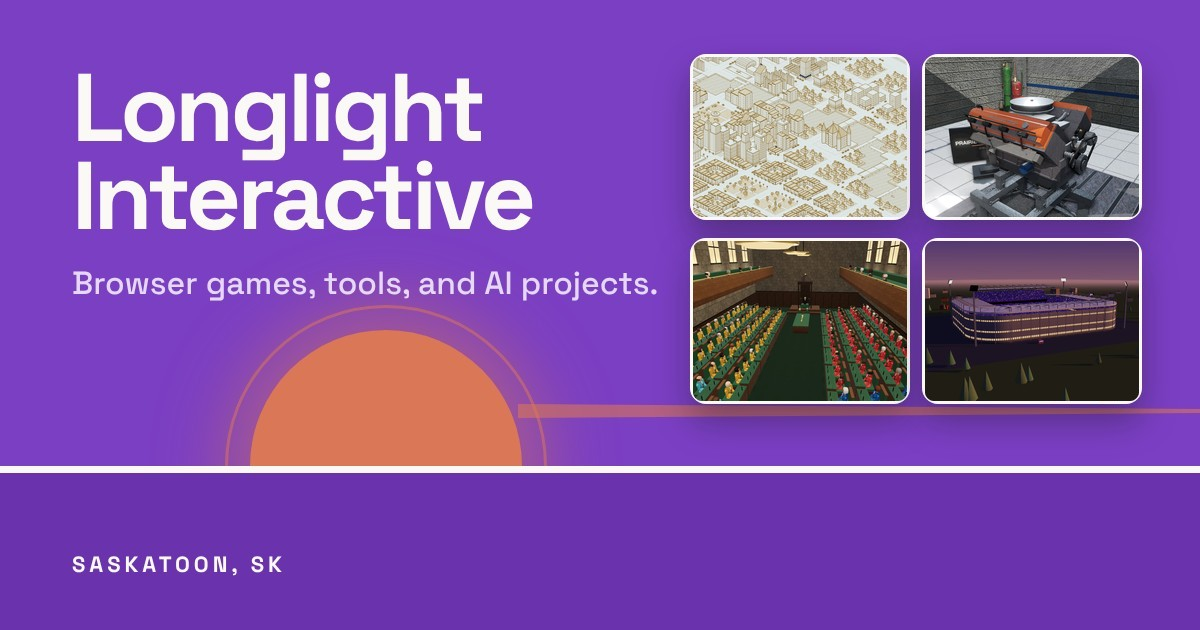
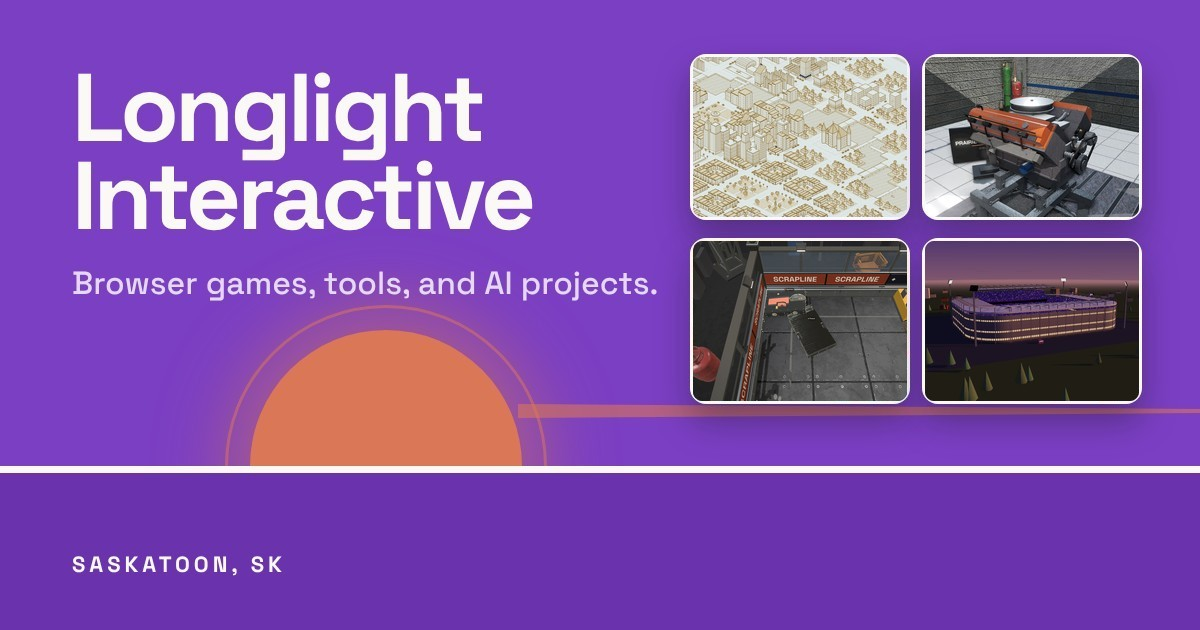
Link preview: Scrapline replaces The Whip in the cover grid (#282)
* Projects: hide The Whip from the site for now

Adds a "hidden": true switch to projects.json. A hidden project drops off
every card list, the All page and its game page, and the Devlog Writer and
Release Writer skip it, but its entry stays so it can come back by deleting
one line. The Whip is hidden while Kelbo puts more time into it; its repo
and live game stay up and public.

Claude-Session: https://claude.ai/code/session_01Hoqj1k4LigxdU4XFew1ULv

* Projects: hide Escapement from the site for now too

Same switch as The Whip: off every list and with no game page, but the
repo and the live game stay up for anyone with the link.

Claude-Session: https://claude.ai/code/session_01Hoqj1k4LigxdU4XFew1ULv

* Contact: in-house form through a Cloudflare Worker

The home page contact form now posts to our own contact-form Worker at
contact.longlight.games, which emails Kelbo with Cloudflare Email Routing.
Web3Forms (and its access key) are gone. His address lives only in the
Worker's settings in Cloudflare, never in the site or repo. The Worker
takes posts only from longlight.games, drops honeypot bots and caps field
lengths. Reference code in .github/worker/contact-form.js; docs updated.

Claude-Session: https://claude.ai/code/session_01Hoqj1k4LigxdU4XFew1ULv

* Pull sky: sky above the page when you pull down, and refresh in the app

Pulling the page down past the top used to show a blank gap with a purple
smudge. Now the sky carries on above the header: stars at night, soft
[…]

Changed region(s): [[0.555, 0.3619, 0.7708, 0.6635]]

diff --git a/press.html b/press.html
@@ -14,7 +14,7 @@
   <meta property="og:title" content="Press kit · Longlight Interactive">
   <meta property="og:description" content="Logos, game covers, screenshots and the facts about Longlight Interactive and its browser games, ready for articles, videos and streams.">
   <meta property="og:url" content="https://longlight.games/press.html">
-  <meta property="og:image" content="https://longlight.games/assets/social-preview.jpg?v=19">
+  <meta property="og:image" content="https://longlight.games/assets/social-preview.jpg?v=20">
   <meta property="og:image:width" content="1200">
   <meta property="og:image:height" content="630">
   <meta property="og:image:alt" content="The Longlight Interactive sun over a purple horizon, beside screenshots of four of its games.">

diff --git a/briefs.html b/briefs.html
@@ -14,7 +14,7 @@
   <meta property="og:title" content="Pre-market brief · Longlight Interactive">
   <meta property="og:description" content="My pre-market brief: MU and the AI hardware names, written from the morning's news before the US open. Estimates, not advice.">
   <meta property="og:url" content="https://longlight.games/briefs.html">
-  <meta property="og:image" content="https://longlight.games/assets/social-preview.jpg?v=19">
+  <meta property="og:image" content="https://longlight.games/assets/social-preview.jpg?v=20">
   <meta property="og:image:width" content="1200">
   <meta property="og:image:height" content="630">
   <meta property="og:image:alt" content="The Longlight Interactive sun over a purple horizon, beside screenshots of four of its games.">

diff --git a/agent-fleet.html b/agent-fleet.html
@@ -14,7 +14,7 @@
   <meta property="og:title" content="Agent Fleet · Longlight Interactive">
   <meta property="og:description" content="A growing set of small, single-purpose bots I can run from my phone, like news digests, trackers, and weekly scans.">
   <meta property="og:url" content="https://longlight.games/agent-fleet.html">
-  <meta property="og:image" content="https://longlight.games/assets/social-preview.jpg?v=19">
+  <meta property="og:image" content="https://longlight.games/assets/social-preview.jpg?v=20">
   <meta property="og:image:width" content="1200">
   <meta property="og:image:height" content="630">
   <meta property="og:image:alt" content="The Longlight Interactive sun over a purple horizon, beside screenshots of four of its games.">

diff --git a/journal.html b/journal.html
@@ -14,7 +14,7 @@
   <meta property="og:title" content="AI Trading Journal · Longlight Interactive">
   <meta property="og:description" content="Kelbo's trading journal: his market views, his trades, and his running record, with notes from an AI coach.">
   <meta property="og:url" content="https://longlight.games/journal.html">
-  <meta property="og:image" content="https://longlight.games/assets/social-preview.jpg?v=19">
+  <meta property="og:image" content="https://longlight.games/assets/social-preview.jpg?v=20">
   <meta property="og:image:width" content="1200">
   <meta property="og:image:height" content="630">
   <meta property="og:image:alt" content="The Longlight Interactive sun over a purple horizon, beside screenshots of four of its games.">

diff --git a/game.html b/game.html
@@ -14,7 +14,7 @@
   <meta property="og:title" content="Game · Longlight Interactive">
   <meta property="og:description" content="A Longlight Interactive browser game: what it is, how far along it is, screenshots, and where to play it.">
   <meta property="og:url" content="https://longlight.games/game.html">
-  <meta property="og:image" content="https://longlight.games/assets/social-preview.jpg?v=19">
+  <meta property="og:image" content="https://longlight.games/assets/social-preview.jpg?v=20">
   <meta property="og:image:width" content="1200">
   <meta property="og:image:height" content="630">
   <meta property="og:image:alt" content="The Longlight Interactive sun over a purple horizon, beside screenshots of four of its games.">

diff --git a/projects.html b/projects.html
@@ -14,7 +14,7 @@
   <meta property="og:title" content="All projects · Longlight Interactive">
   <meta property="og:description" content="Games, trading tools and everyday tools from Longlight Interactive, from planned to shipped.">
   <meta property="og:url" content="https://longlight.games/projects.html">
-  <meta property="og:image" content="https://longlight.games/assets/social-preview.jpg?v=19">
+  <meta property="og:image" content="https://longlight.games/assets/social-preview.jpg?v=20">
   <meta property="og:image:width" content="1200">
   <meta property="og:image:height" content="630">
   <meta property="og:image:alt" content="The Longlight Interactive sun over a purple horizon, beside screenshots of four of its games.">

diff --git a/games.html b/games.html
@@ -14,7 +14,7 @@
   <meta property="og:title" content="Games · Longlight Interactive">
   <meta property="og:description" content="Browser games from Longlight Interactive. Play them on your phone or computer, or look at the code.">
   <meta property="og:url" content="https://longlight.games/games.html">
-  <meta property="og:image" content="https://longlight.games/assets/social-preview.jpg?v=19">
+  <meta property="og:image" content="https://longlight.games/assets/social-preview.jpg?v=20">
   <meta property="og:image:width" content="1200">
   <meta property="og:image:height" content="630">
   <meta property="og:image:alt" content="The Longlight Interactive sun over a purple horizon, beside screenshots of four of its games.">

diff --git a/devlog.html b/devlog.html
@@ -14,7 +14,7 @@
   <meta property="og:title" content="Devlog · Longlight Interactive">
   <meta property="og:description" content="News from Longlight Interactive: new games, big updates and what we're working on, newest first.">
   <meta property="og:url" content="https://longlight.games/devlog.html">
-  <meta property="og:image" content="https://longlight.games/assets/social-preview.jpg?v=19">
+  <meta property="og:image" content="https://longlight.games/assets/social-preview.jpg?v=20">
   <meta property="og:image:width" content="1200">
   <meta property="og:image:height" content="630">
   <meta property="og:image:alt" content="The Longlight Interactive sun over a purple horizon, beside screenshots of four of its games.">

diff --git a/about.html b/about.html
@@ -14,7 +14,7 @@
   <meta property="og:title" content="About · Longlight Interactive">
   <meta property="og:description" content="About Kelbo, the person behind Longlight Interactive, based in Saskatoon, Saskatchewan.">
   <meta property="og:url" content="https://longlight.games/about.html">
-  <meta property="og:image" content="https://longlight.games/assets/social-preview.jpg?v=19">
+  <meta property="og:image" content="https://longlight.games/assets/social-preview.jpg?v=20">
   <meta property="og:image:width" content="1200">
   <meta property="og:image:height" content="630">
   <meta property="og:image:alt" content="The Longlight Interactive sun over a purple horizon, beside screenshots of four of its games.">

diff --git a/whats-new.html b/whats-new.html
@@ -14,7 +14,7 @@
   <meta property="og:title" content="What's new · Longlight Interactive">
   <meta property="og:description" content="The newest version and latest change for every Longlight Interactive project.">
   <meta property="og:url" content="https://longlight.games/whats-new.html">
-  <meta property="og:image" content="https://longlight.games/assets/social-preview.jpg?v=19">
+  <meta property="og:image" content="https://longlight.games/assets/social-preview.jpg?v=20">
   <meta property="og:image:width" content="1200">
   <meta property="og:image:height" content="630">
   <meta property="og:image:alt" content="The Longlight Interactive sun over a purple horizon, beside screenshots of four of its games.">

diff --git a/trading.html b/trading.html
@@ -14,7 +14,7 @@
   <meta property="og:title" content="Trading · Longlight Interactive">
   <meta property="og:description" content="Kelbo's trading journal and the tools he builds for his own trading day.">
   <meta property="og:url" content="https://longlight.games/trading.html">
-  <meta property="og:image" content="https://longlight.games/assets/social-preview.jpg?v=19">
+  <meta property="og:image" content="https://longlight.games/assets/social-preview.jpg?v=20">
   <meta property="og:image:width" content="1200">
   <meta property="og:image:height" content="630">
   <meta property="og:image:alt" content="The Longlight Interactive sun over a purple horizon, beside screenshots of four of its games.">

diff --git a/index.html b/index.html
@@ -14,7 +14,7 @@
   <meta property="og:title" content="Longlight Interactive">
   <meta property="og:description" content="Longlight Interactive makes browser games and AI projects in Saskatoon, Saskatchewan.">
   <meta property="og:url" content="https://longlight.games/">
-  <meta property="og:image" content="https://longlight.games/assets/social-preview.jpg?v=19">
+  <meta property="og:image" content="https://longlight.games/assets/social-preview.jpg?v=20">
   <meta property="og:image:width" content="1200">
   <meta property="og:image:height" content="630">
   <meta property="og:image:alt" content="The Longlight Interactive sun over a purple horizon, beside screenshots of four of its games.">
